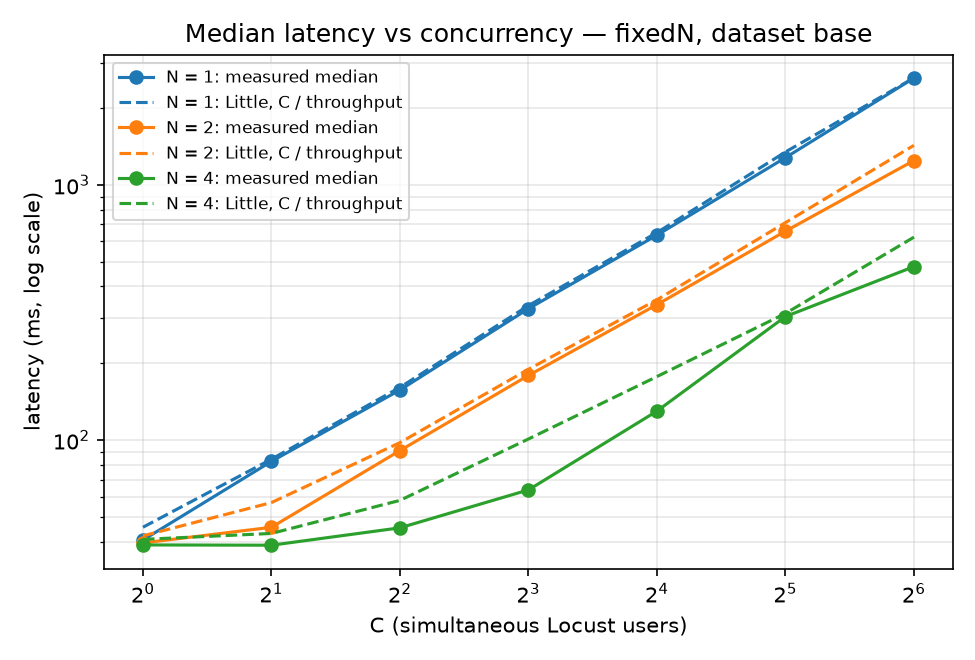
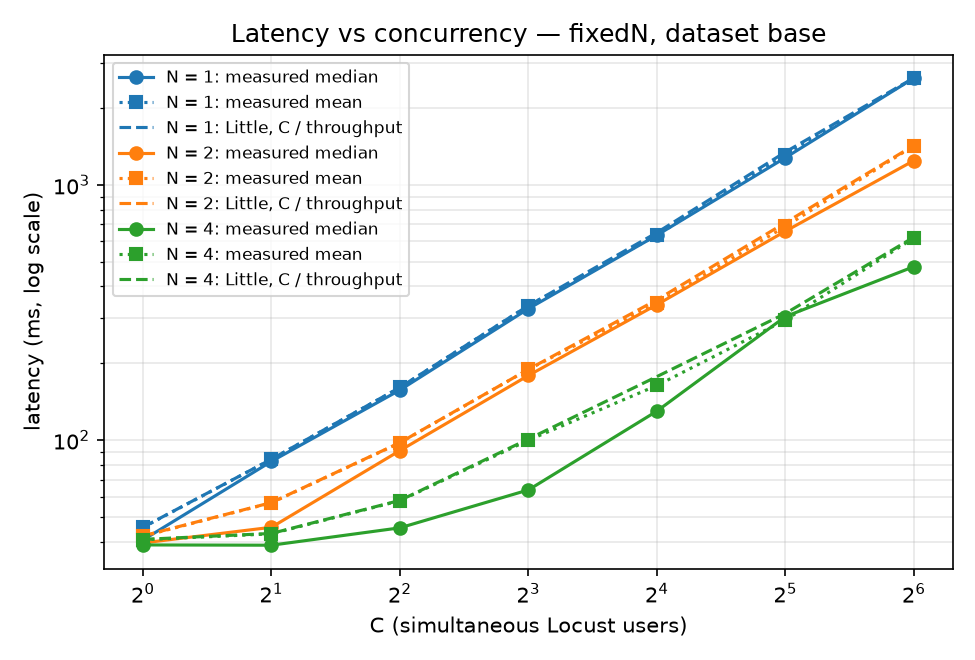
Fig 2b: show mean latency next to the median (Little's law applies to the mean)

diff --git a/scripts/plot_part2.py b/scripts/plot_part2.py
@@ -99,10 +99,11 @@ for i, N in enumerate(Ns):
     xs = [C for C in Cs if (N, C, 1) in data or (N, C, 2) in data]
     col = f"C{i}"
     a.plot(xs, [mean_rep(N, C, "latency_median_ms") for C in xs], "o-", color=col, label=f"N = {N}: measured median")
+    a.plot(xs, [mean_rep(N, C, "latency_mean_ms") for C in xs], "s:", color=col, label=f"N = {N}: measured mean")
     a.plot(xs, [1000.0 * C / mean_rep(N, C, "throughput_rps") for C in xs], "--", color=col, label=f"N = {N}: Little, C / throughput")
 a.set_xscale("log", base=2); a.set_yscale("log")
 a.set_xlabel("C (simultaneous Locust users)"); a.set_ylabel("latency (ms, log scale)")
-a.set_title("Median latency vs concurrency — fixedN, dataset base")
+a.set_title("Latency vs concurrency — fixedN, dataset base")
 a.legend(fontsize=8); a.grid(alpha=0.3, which="both")
 fig.tight_layout(); fig.savefig(f"{OUT}/fig2b.png", dpi=150); plt.close(fig)
 
